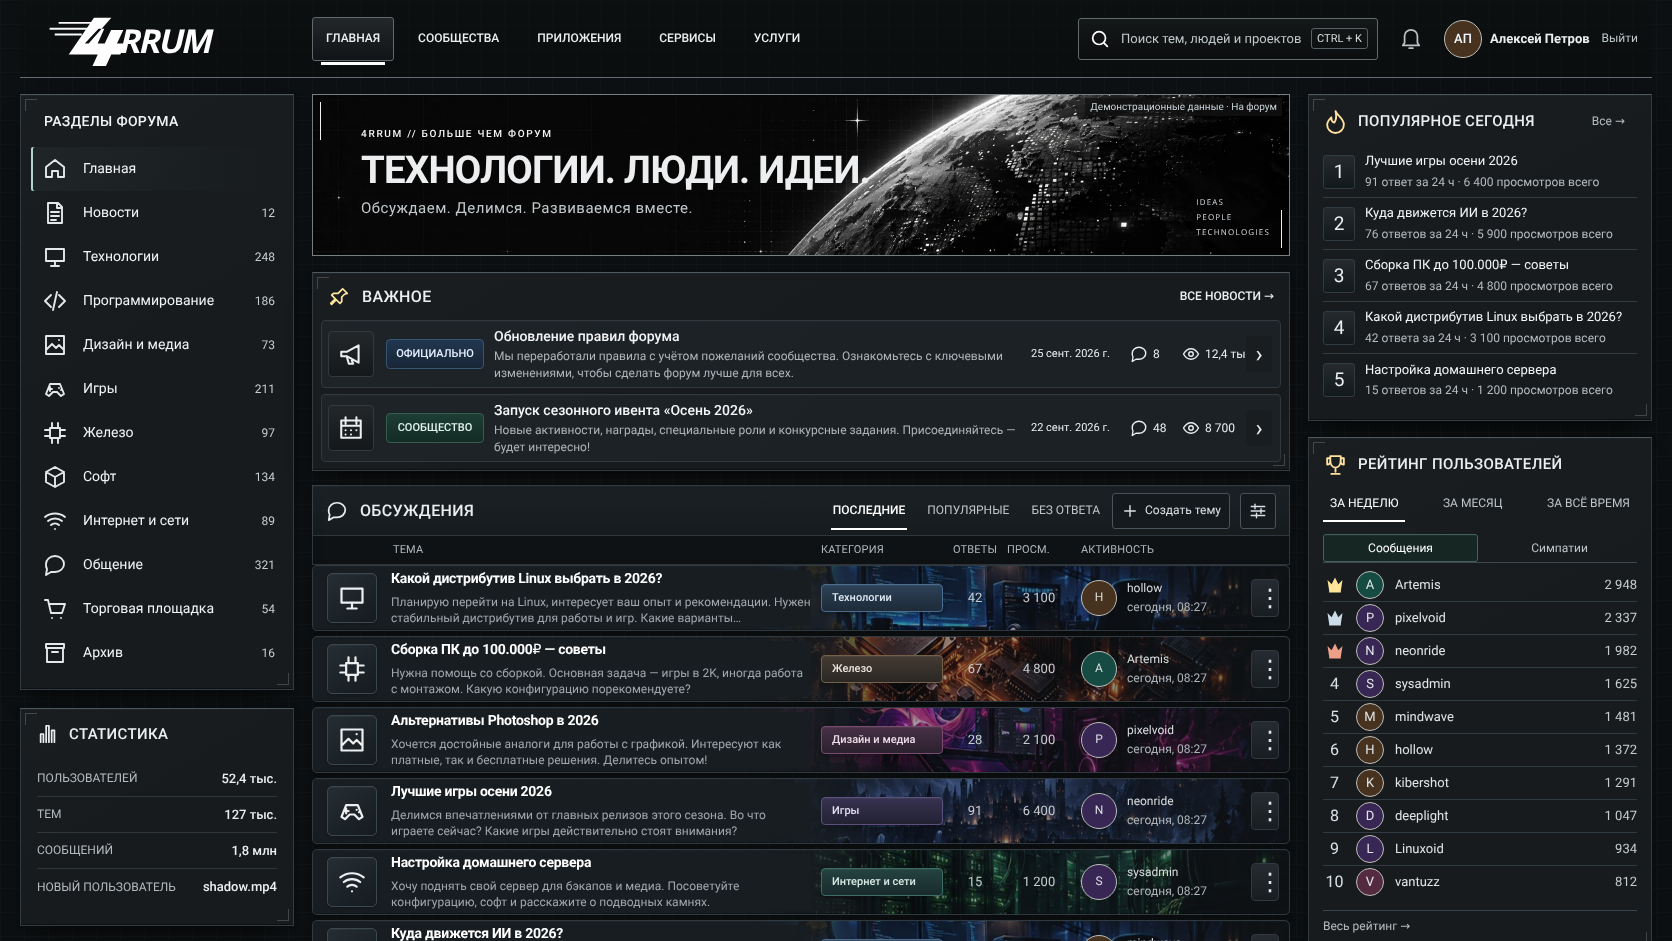
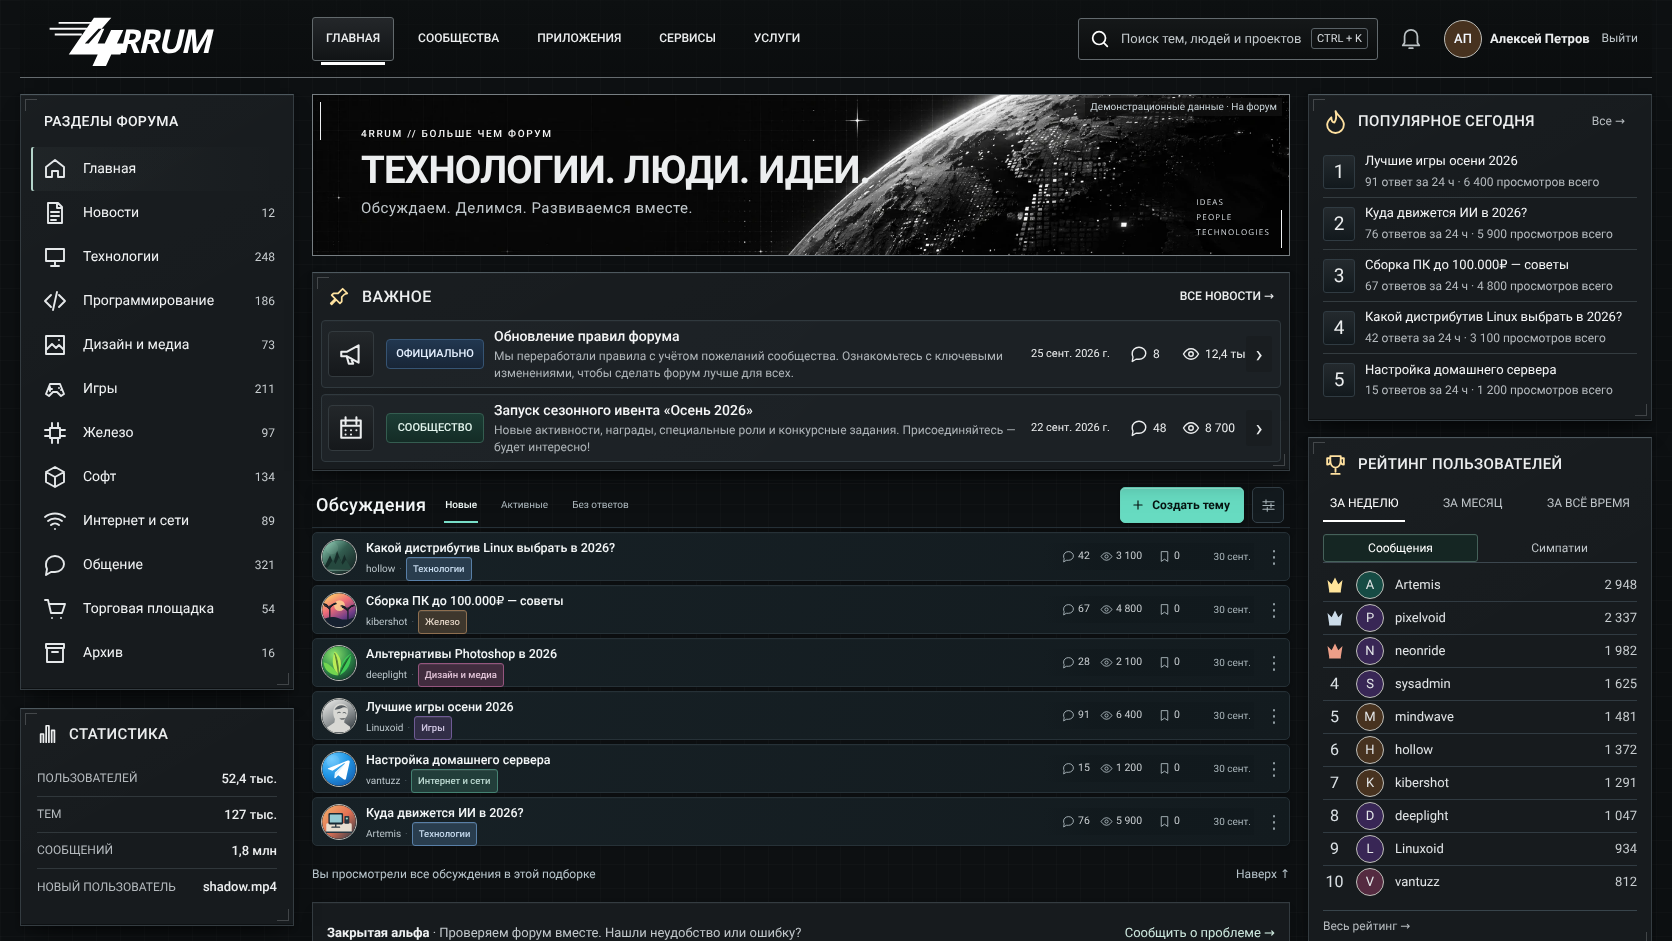
Темы по новому референсу: ровные поверхности и дата публикации (#140)
* Align compact topic surfaces and publication dates with approved reference

* Refresh reviewed portable browser references for compact feed

Changed region(s): [[0.1866, 0.4931, 0.7775, 1.0], [0.7464, 0.8321, 0.7775, 0.8629]]

diff --git a/apps/web/components/reference-home.tsx b/apps/web/components/reference-home.tsx
@@ -138,7 +138,7 @@ function Topic({ item, history, communities, demo, guest }: { item: PublicationC
  const categoryLabel=category?.parent ? `${communityLabel(category.parent.name)} › ${communityLabel(item.community.name)}` : communityLabel(item.community.name);
  const readState=topicReadState(history,item.id,item.lastComment?.createdAt);
  const important=Boolean(item.isOfficial && item.pinnedUntil && Date.parse(item.pinnedUntil)>Date.now());
- const lastAt=item.lastComment?.createdAt ?? item.lastActivityAt ?? item.createdAt;
+ const publishedAt=item.createdAt;
  const cover=topicBackdrop(item.community.slug,item.community.name);
  const style={
    ...categoryStyle(item.community.slug, category?.accentColor ?? item.community.accentColor),
@@ -166,7 +166,7 @@ function Topic({ item, history, communities, demo, guest }: { item: PublicationC
    <Link className="forum-topic-metric forum-reply-count" href={`/p/${item.slug}#discussion`} aria-label={`Ответы: ${item.commentCount}`} title="Ответы"><Icon name="comment"/><span>{formatCount(item.commentCount)}</span></Link>
    <span className="forum-topic-metric forum-view-count" title="Просмотры" aria-label={`Просмотры: ${item.viewCount ?? 0}`}><Icon name="eye"/><span>{formatCount(item.viewCount)}</span></span>
    <span className="forum-topic-metric forum-bookmark-count" title="Закладки" aria-label={`Закладки: ${item.bookmarkCount ?? 0}`}><Icon name="bookmark"/><span>{formatCount(item.bookmarkCount ?? 0)}</span></span>
-   <span className="forum-topic-date"><ForumTime value={lastAt} absolute compact/></span>
+   <span className="forum-topic-date"><ForumTime value={publishedAt} absolute compact/></span>
   </div>
   <div className="forum-topic-menu"><TopicActions item={item} demo={demo} guest={guest}/></div>
  </article>;

diff --git a/apps/web/app/home-alpha.css b/apps/web/app/home-alpha.css
@@ -1015,3 +1015,8 @@ body:has(.forum-home) .site-footer {display:none;}
  }
  .forum-home .forum-more-trigger {color:#a4b0b6;}
 }
+
+/* v79: the approved compact feed uses quiet surfaces and publication dates. */
+.forum-home .forum-topic::after {display:none;}
+.forum-home .forum-topic {background:linear-gradient(110deg,#172126,#131b1f);}
+.forum-home .forum-topic-content {background:none;border-radius:0;}
